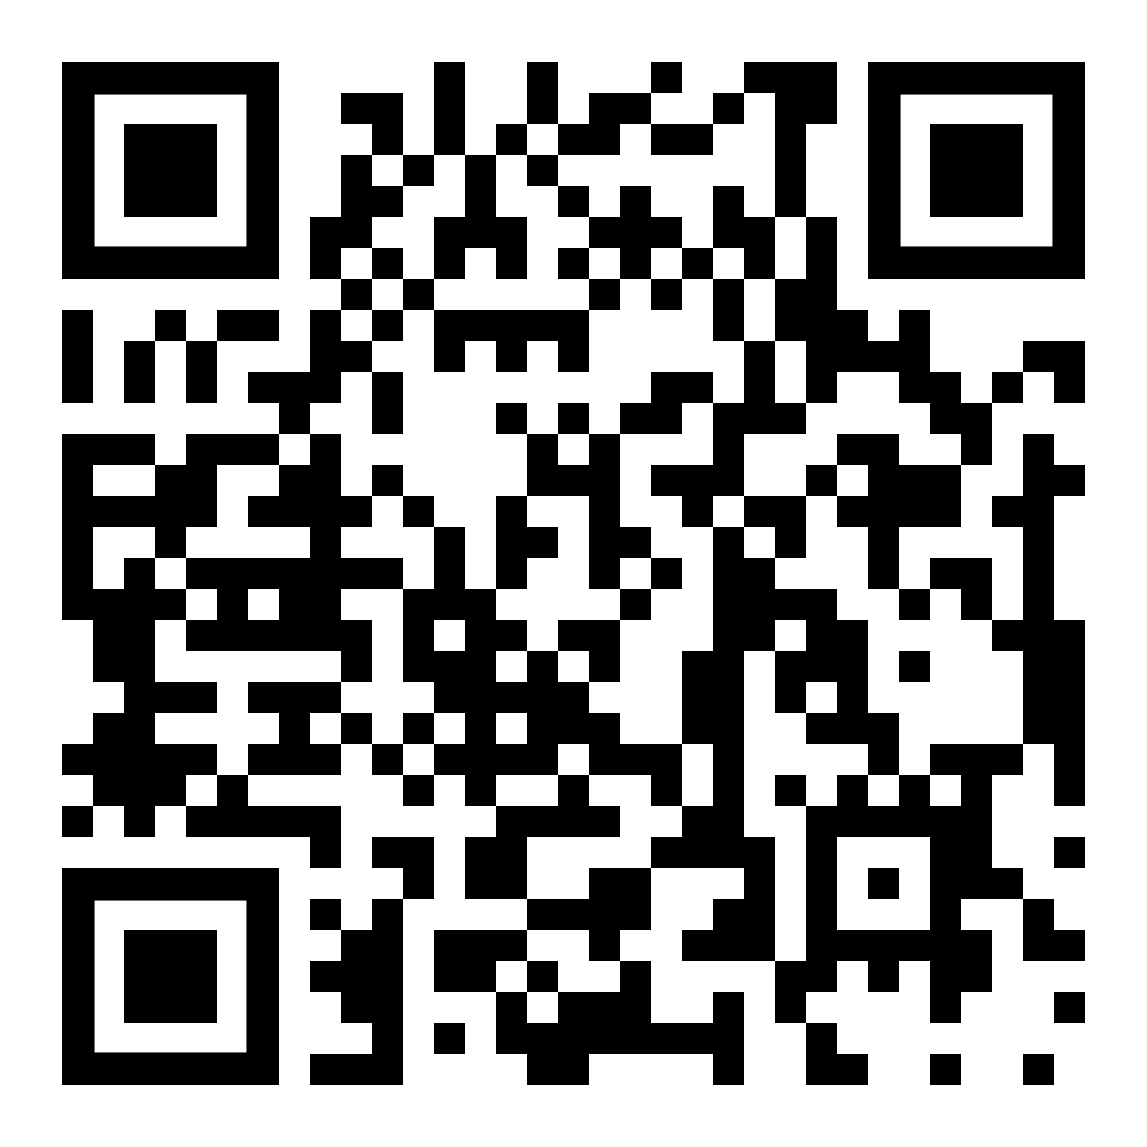
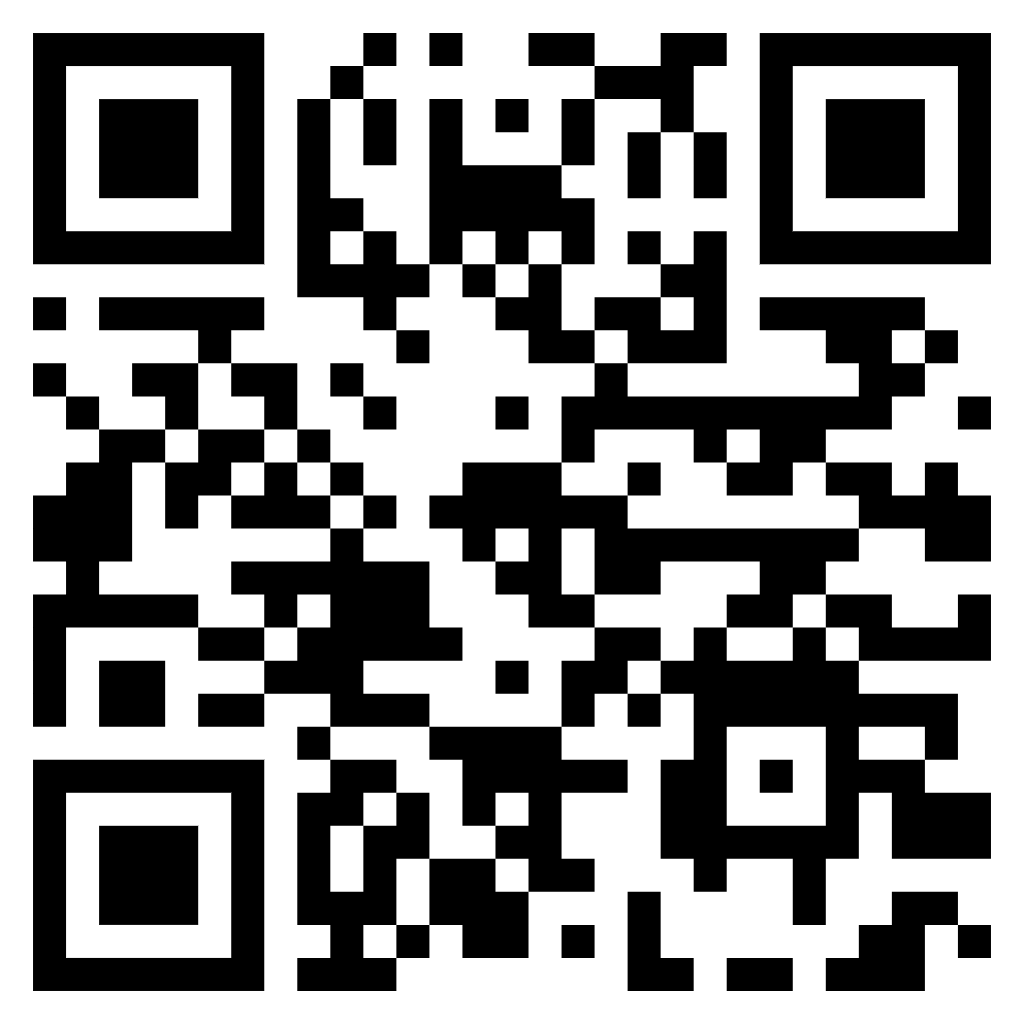
fix: Finalisation du QR code. Redirection vers la racine Vercel (URL de soumission) et mise à jour de l'image du QR code.

diff --git a/frontend/src/pages/HomePage.js b/frontend/src/pages/HomePage.js
@@ -72,12 +72,16 @@ const HomePage = () => {
                 </div>
 
                 {/* NOUVEAU : QR CODE */}
+                // ... dans la fonction HomePage, dans la div style={overlayStyle} ...
+
+                {/* NOUVEAU : QR CODE */}
                 <div style={{ marginTop: '30px' }}>
                     <p style={{ fontSize: '1.1em', color: 'white', marginBottom: '15px' }}>{t('general.qr_cta')}</p>
-                    <Link to="/oeuvre/masque-sagesse-fix"> {/* Lien direct vers la démo du masque */}
+                    {/* 🛑 CORRECTION ICI : Redirige vers la racine / */}
+                    <Link to="/"> 
                         <img 
                             src="/qr-masque-demo.png" 
-                            alt="QR Code Masque Démo" 
+                            alt="QR Code Accueil" 
                             style={{ 
                                 width: '150px', // Taille du QR code
                                 height: 'auto', 
@@ -88,6 +92,8 @@ const HomePage = () => {
                         />
                     </Link>
                 </div>
+
+// ...
 
             </div>
         </div>
